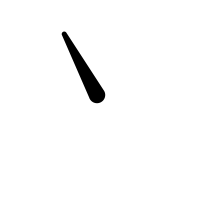
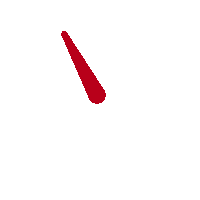
speedo meter animation

Changed region(s): [[0.3, 0.15, 0.54, 0.54]]

diff --git a/gameScreen.qml b/gameScreen.qml
@@ -6,6 +6,7 @@ import Link 1.0
 Item {
     id: myGameScreen
     property bool showBox
+    property int speedoMeter: -38
     //signal returner()
     signal speedupdate(var newSpeed)
     anchors.fill: parent
@@ -64,7 +65,7 @@ Item {
     Image{
         source: "archer.png"
         anchors.centerIn: speedo
-        rotation: 45
+        rotation: speedoMeter
     }
 
     //2d box where setting can be edited
@@ -83,8 +84,10 @@ Item {
             text: "Increase height!"
             onClicked: {
                 myLinker.height = myLinker.height + 1;
-                myLinker.speed = myLinker.speed + 2000;
+                myLinker.speed = myLinker.speed + 500;
                 speedupdate(myLinker.speed);
+                speedoMeter = speedoMeter + 11;
+                updateAnimation();
             }
         }
 
@@ -93,8 +96,10 @@ Item {
             text: "Decrease height!"
             onClicked: {
                 myLinker.height = myLinker.height - 1;
-                myLinker.speed = myLinker.speed - 2000;
+                myLinker.speed = myLinker.speed - 500;
                 speedupdate(myLinker.speed);
+                speedoMeter = speedoMeter - 11;
+                updateAnimation();
             }
 
         }
@@ -103,7 +108,22 @@ Item {
         id: myLinker
         speed: 2000
     }
+    SequentialAnimation on speedoMeter {
+        id:speedoAnimation
+        loops: Animation.Infinite
+        running: true
+            PropertyAnimation{ from:speedoMeter+1; to: speedoMeter - 1; duration: 100;}
+            PropertyAnimation{ from:speedoMeter-1; to: speedoMeter + 1 ; duration: 100;}
+
+    }
+
+    function updateAnimation(){
+        speedoAnimation.stop();
+        speedoAnimation.start();
+    }
 
 
 
 }
+
+

diff --git a/LevelScreen.qml b/LevelScreen.qml
@@ -102,9 +102,9 @@ Item {
                         delegate:
                             Image{
 
-                            source: "yellowstar.png";
-                            width: 50;
-                            height: 50;
+                            source: "starfish.png";
+                            width: 70;
+                            height: 70;
                         }
                     }
                 }
